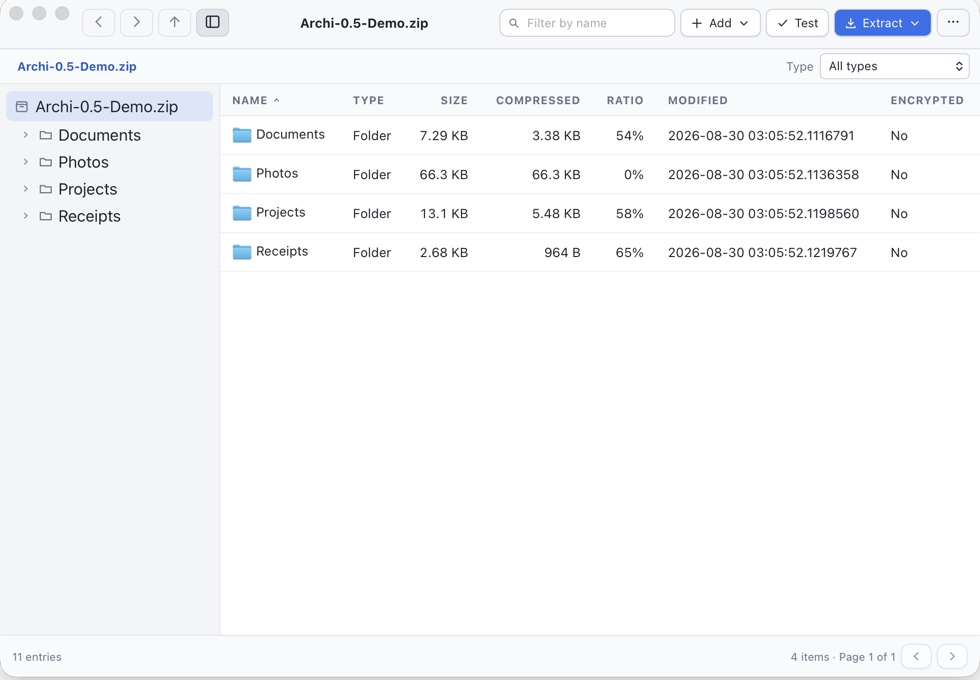
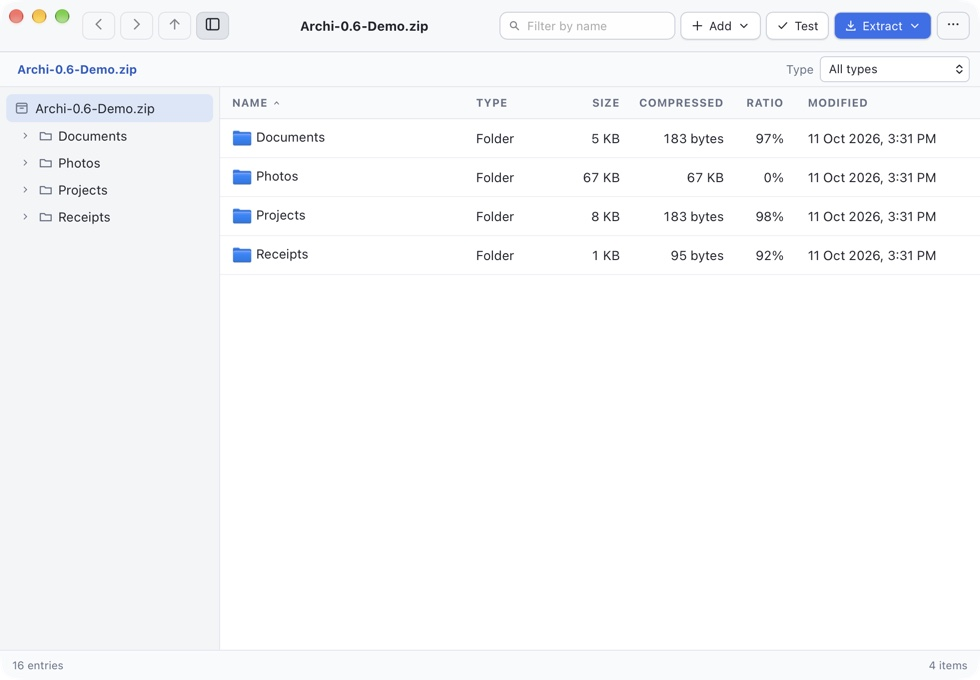
Record the Archi 0.6.0 release artifact
Add the checksum and notarization submissions of the 0.6.0 disk image to
the release notes, and replace the screenshot with one taken from the
0.6.0 app. The manual release checklist is not yet complete.

diff --git a/website/release-notes.html b/website/release-notes.html
@@ -41,7 +41,7 @@
           Back to the Archi site
         </a>
         <h1>Archi 0.6.0 release notes</h1>
-        <p class="doc-meta"><strong>Release status:</strong> Draft. Archi 0.6.0 has not been released.</p>
+        <p class="doc-meta"><strong>Release status:</strong> Signed and notarized macOS build. The manual release checklist has not been completed for this build.</p>
       </header>
 
       <article class="doc-body">
@@ -117,6 +117,7 @@
           <li>Minimum system: macOS 13</li>
           <li>Build architecture: universal Apple Silicon and Intel</li>
           <li>Archive engine: official 7-Zip 26.02 universal macOS binary</li>
+          <li>Packaging: Developer-ID-signed, notarized, and stapled DMG with hardened runtime</li>
         </ul>
 
         <p>
@@ -127,8 +128,20 @@
         </p>
 
         <h2>Verification</h2>
+        <ul>
+          <li>Final artifact: <code>Archi_0.6.0_universal.dmg</code></li>
+          <li>SHA-256: <code>29916ec39a94442a82f093ef01790bb6266067169458d7a5336581be8105969d</code></li>
+          <li>Apple notarization: app submission <code>057213ed-b311-4458-964a-a8b040820637</code> and DMG submission <code>57adf059-dfdd-46e0-b192-74f17f61ace4</code>, both accepted</li>
+          <li>TypeScript/Vite production build and frontend tests</li>
+          <li>Rust formatting, strict Clippy, unit, engine-contract, and security tests</li>
+          <li>100,000-entry listing and selection gates, and the 1,000-operation real-engine stress gate</li>
+          <li>Universal Mach-O verification for Archi and the bundled <code>7zz</code></li>
+          <li>Deep strict code-signature verification</li>
+          <li>Apple notarization, stapling, and Gatekeeper assessment of the app and the DMG</li>
+          <li>Release verifier (<code>pnpm verify:macos</code>) against the <code>v0.6.0</code> tag</li>
+        </ul>
         <p>
-          To be completed when the release is built: final artifact name and SHA-256, Apple notarization submission IDs, and the manual checks in the release checklist. Nothing in this section is claimed yet.
+          The packaged-application, Finder Services, and clean-machine checks in the release checklist have not been performed for this build and are not claimed here. The artifact was built from the commit immediately before this record; the two differ only in these release notes, the screenshot, and its captions, none of which are packaged into the app.
         </p>
       </article>
     </div>

diff --git a/website/index.html b/website/index.html
@@ -87,8 +87,8 @@
         </div>
 
         <figure class="hero-visual">
-          <img class="hero-screenshot" src="assets/archi-window.jpg" width="980" height="680" alt="Archi 0.5.0 browsing a fictional sample ZIP with filename and file-type filters.">
-          <figcaption>Actual Archi 0.5.0 interface shown with fictional sample data.</figcaption>
+          <img class="hero-screenshot" src="assets/archi-window.jpg" width="980" height="680" alt="Archi 0.6.0 browsing a fictional sample ZIP with filename and file-type filters.">
+          <figcaption>Actual Archi 0.6.0 interface shown with fictional sample data.</figcaption>
         </figure>
       </div>
     </section>

diff --git a/docs/RELEASE_NOTES.md b/docs/RELEASE_NOTES.md
@@ -1,6 +1,6 @@
 # Archi 0.6.0 release notes
 
-**Release status:** Draft. Archi 0.6.0 has not been released.
+**Release status:** Signed and notarized macOS build. The manual release checklist has not been completed for this build.
 
 Archi 0.6.0 opens compressed tarballs directly, extracts archives that contain links, edits archives in place more naturally, and fixes a set of problems found in a full review of 0.5.0.
 
@@ -66,9 +66,21 @@ Archi 0.6.0 opens compressed tarballs directly, extracts archives that contain l
 - Minimum system: macOS 13
 - Architecture: universal Apple Silicon and Intel
 - Archive engine: official 7-Zip 26.02 universal macOS binary
+- Packaging: Developer-ID-signed, hardened-runtime, notarized, and stapled DMG
 
 See [Supported formats](SUPPORTED_FORMATS.md), [Known limitations](KNOWN_LIMITATIONS.md), [Privacy](PRIVACY.md), [Security design](SECURITY_DESIGN.md), and [Third-party notices](../THIRD_PARTY_NOTICES.md).
 
 ## Verification
 
-To be completed when the release is built: final artifact name and SHA-256, Apple notarization submission IDs, and the manual checks in the release checklist. Nothing in this section is claimed yet.
+- Final artifact: `Archi_0.6.0_universal.dmg`
[1 lines of base64/hex data omitted]
+- Apple notarization: app submission `057213ed-b311-4458-964a-a8b040820637` and DMG submission `57adf059-dfdd-46e0-b192-74f17f61ace4`, both accepted
+- TypeScript/Vite production build and frontend tests
+- Rust formatting, strict Clippy, unit, engine-contract, and security tests
+- 100,000-entry listing and selection gates, and the 1,000-operation real-engine stress gate
+- Universal Mach-O verification for Archi and the bundled `7zz`
+- Deep strict code-signature verification
+- Apple notarization, stapling, and Gatekeeper assessment of the app and the DMG
+- Release verifier (`pnpm verify:macos`) against the `v0.6.0` tag
+
+The packaged-application, Finder Services, and clean-machine checks in the release checklist have not been performed for this build and are not claimed here. The artifact was built from the commit immediately before this record; the two differ only in these release notes, the screenshot, and its captions, none of which are packaged into the app.

diff --git a/README.md b/README.md
@@ -15,7 +15,7 @@
 </p>
 
 <p align="center">
-  <img src="website/assets/archi-window.jpg" width="980" alt="Archi 0.5.0 browsing a fictional sample archive with filename and file-type filters">
+  <img src="website/assets/archi-window.jpg" width="980" alt="Archi 0.6.0 browsing a fictional sample archive with filename and file-type filters">
 </p>
 
 Archi makes it easy to open, create, inspect, test, modify, and safely extract
